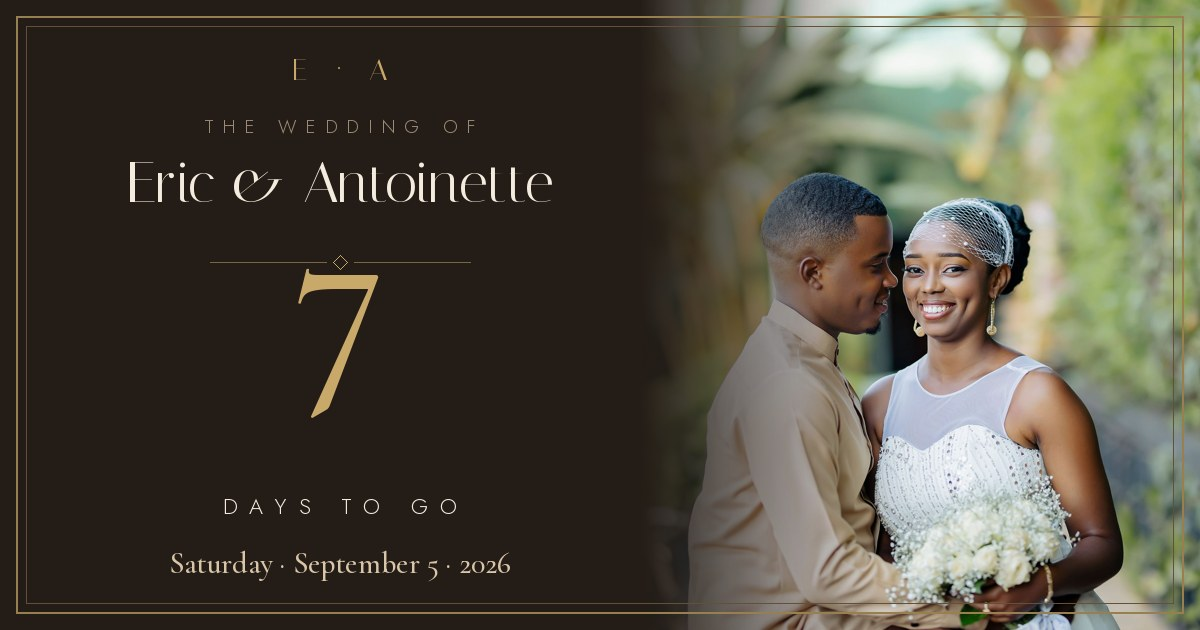
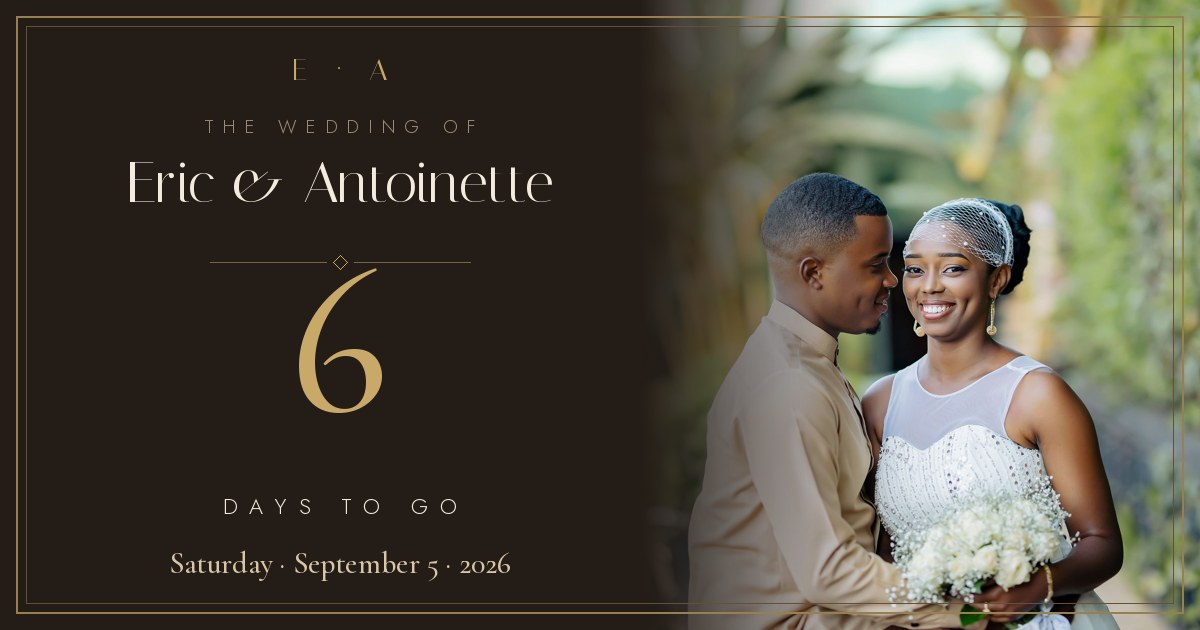
Daily countdown card refresh

Changed region(s): [[0.2467, 0.4222, 0.3392, 0.6635]]

diff --git a/index.html b/index.html
@@ -9,7 +9,7 @@
 <meta property="og:description" content="Saturday, September 5, 2026 — count down the days with us.">
 <meta property="og:type" content="website">
 <meta property="og:url" content="https://tuyishimireeric.github.io/antoeric/">
-<meta property="og:image" content="https://tuyishimireeric.github.io/antoeric/og.jpg?v=20260828">
+<meta property="og:image" content="https://tuyishimireeric.github.io/antoeric/og.jpg?v=20260829">
 <meta property="og:image:width" content="1200">
 <meta property="og:image:height" content="630">
 <meta name="twitter:card" content="summary_large_image">
